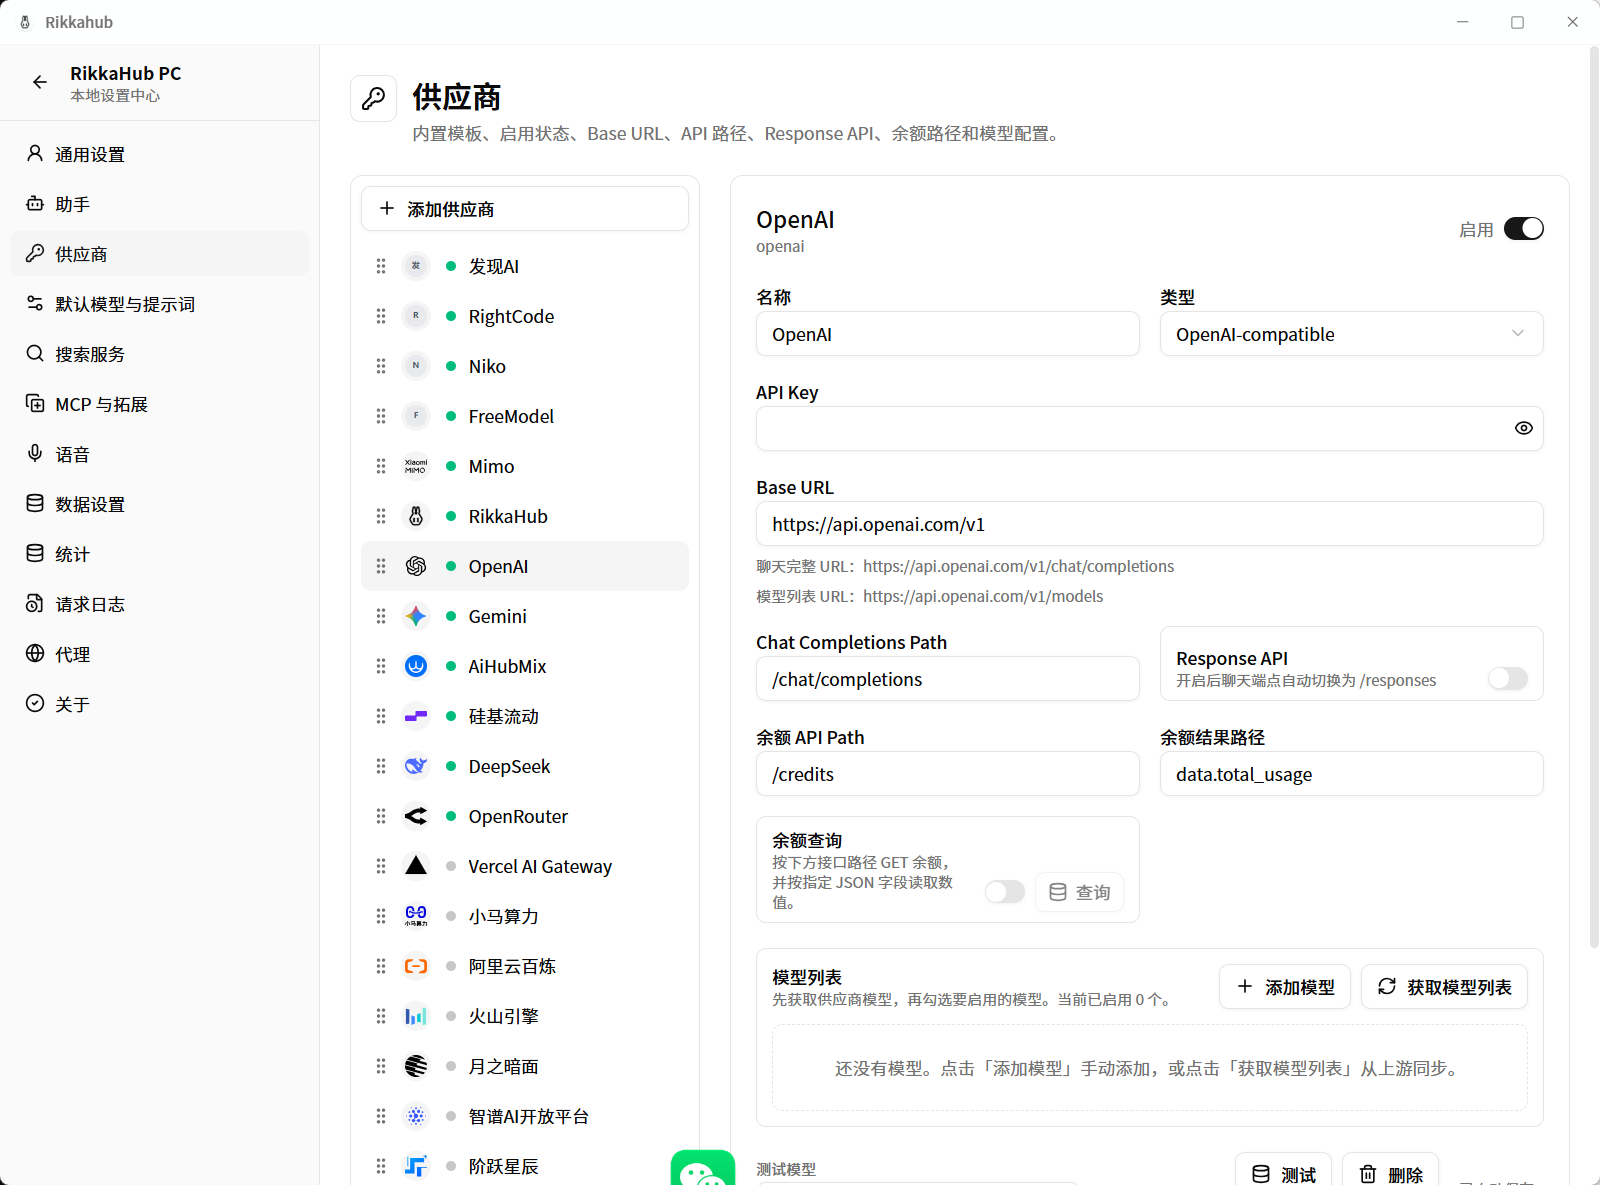
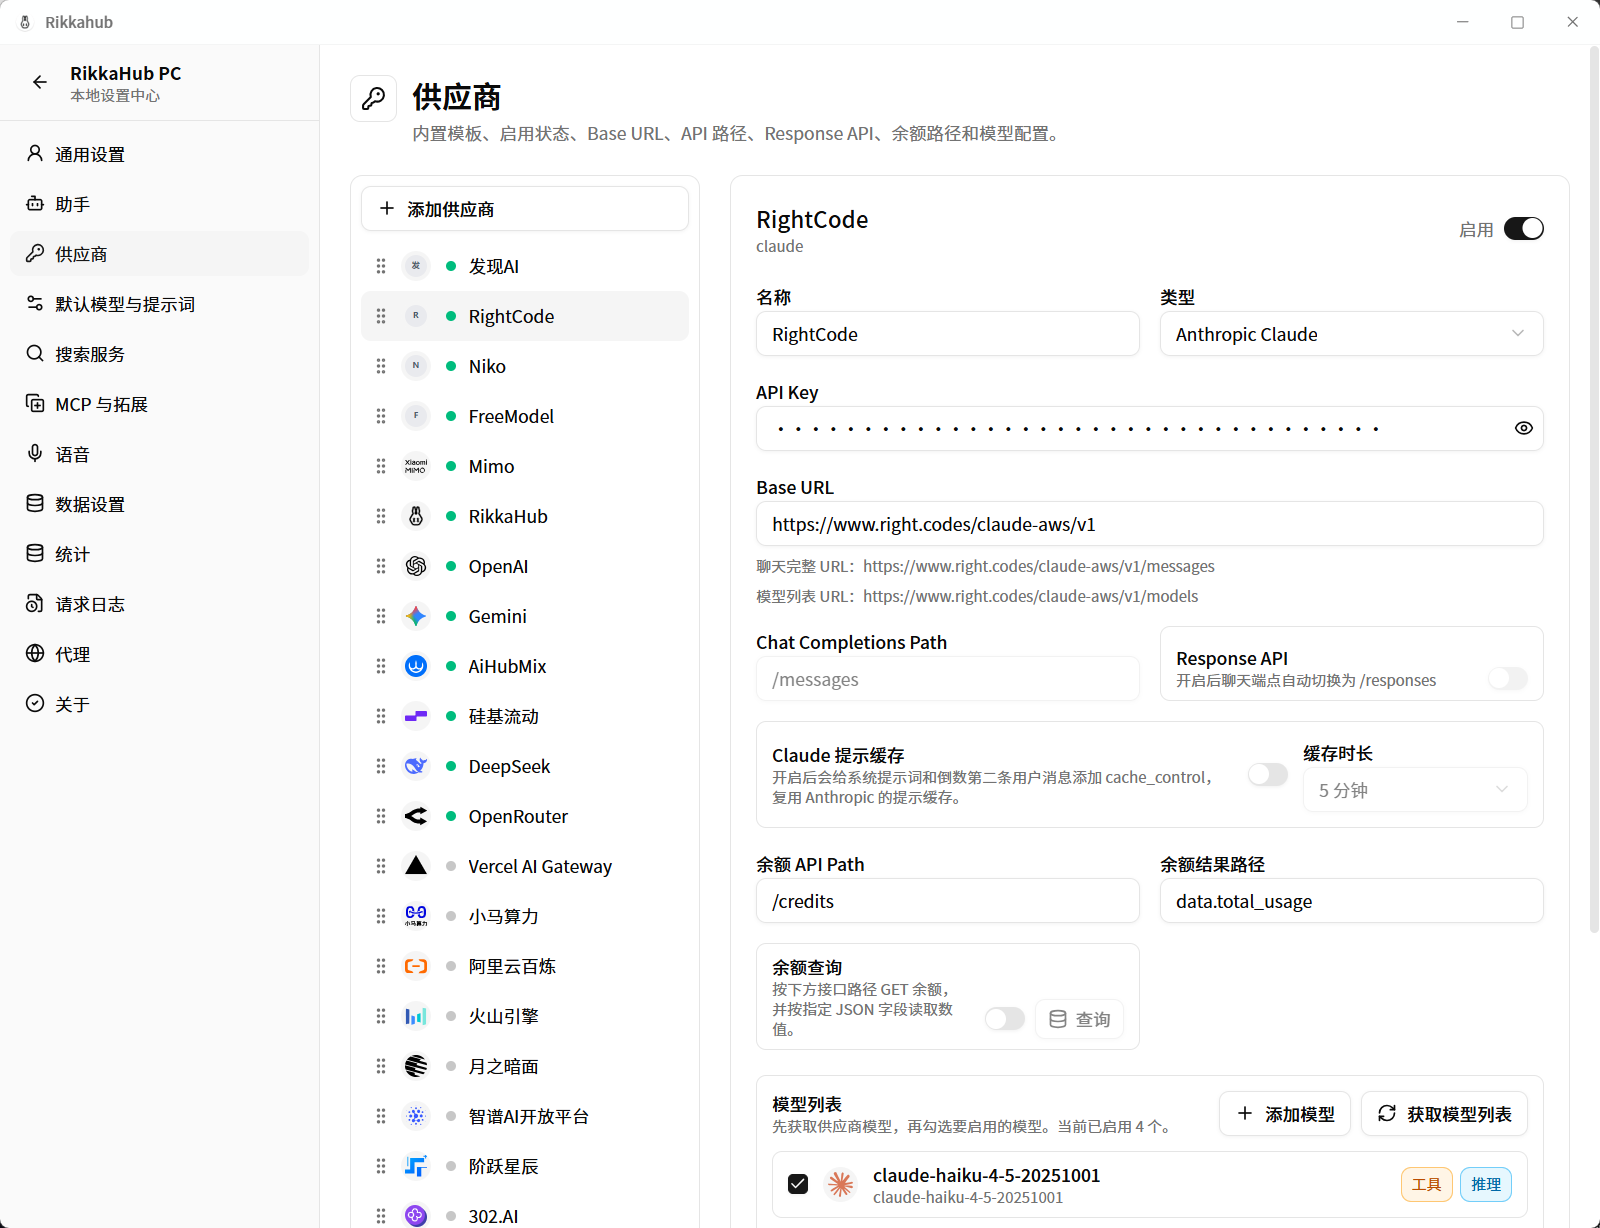
feat(docs): 多模态卡片改为扩展生态介绍 + 新增 Extension.png 截图展示 + 替换 settings.png

diff --git a/docs/index.html b/docs/index.html
@@ -343,10 +343,10 @@
 
         <div class="feat-card bg-[#0a0a0f] p-7 hover:bg-white/[0.02]">
           <div class="inline-flex size-10 items-center justify-center rounded-lg bg-emerald-500/15 text-emerald-300">
-            <svg class="size-5" viewBox="0 0 24 24" fill="none" stroke="currentColor" stroke-width="2" stroke-linecap="round" stroke-linejoin="round"><rect x="3" y="3" width="18" height="18" rx="2"/><circle cx="8.5" cy="8.5" r="1.5"/><path d="m21 15-5-5L5 21"/></svg>
+            <svg class="size-5" viewBox="0 0 24 24" fill="none" stroke="currentColor" stroke-width="2" stroke-linecap="round" stroke-linejoin="round"><path d="M4 19.5A2.5 2.5 0 0 1 6.5 17H20"/><path d="M6.5 2H20v20H6.5A2.5 2.5 0 0 1 4 19.5v-15A2.5 2.5 0 0 1 6.5 2z"/></svg>
           </div>
-          <h3 data-i18n="feat4.title" class="mt-5 text-lg font-semibold">多模态输入</h3>
-          <p data-i18n="feat4.body" class="mt-2 text-sm text-zinc-500 leading-relaxed">图片、PDF、DOCX、纯文本拖入即用。模型不支持的格式自动转文本。</p>
+          <h3 data-i18n="feat4.title" class="mt-5 text-lg font-semibold">世界书 · 提示词注入 · Skills</h3>
+          <p data-i18n="feat4.body" class="mt-2 text-sm text-zinc-500 leading-relaxed">世界书条目按触发词自动注入，提示词注入按位置叠加到系统提示词，Skills 可从 GitHub 一键导入。三套机制可以混合使用，每个助手独立配置。</p>
         </div>
 
         <div class="feat-card bg-[#0a0a0f] p-7 hover:bg-white/[0.02]">
@@ -450,6 +450,34 @@
             <p data-i18n="screenshots.imageBody2" class="mt-3 text-zinc-400 leading-relaxed">
               生成的图片与对话历史一起本地存档，便于后续引用或导出。
             </p>
+          </div>
+        </div>
+
+        <!-- Third showcase: Extensions (world books, prompt injections, MCP, Skills, etc.) —
+             text on the left, screenshot on the right (same orientation as the first
+             showcase so the page has a left-right-left rhythm down the page). -->
+        <div class="grid items-center gap-12 lg:grid-cols-2">
+          <div>
+            <div class="inline-flex items-center gap-2 rounded-full border border-emerald-500/20 bg-emerald-500/10 px-3 py-1 text-xs font-medium text-emerald-300">
+              <span data-i18n="screenshots.extBadge">扩展生态</span>
+            </div>
+            <h3 data-i18n="screenshots.extTitle" class="mt-4 text-3xl font-bold tracking-tight sm:text-4xl">为每个助手注入个性</h3>
+            <p data-i18n="screenshots.extBody1" class="mt-4 text-zinc-400 leading-relaxed">
+              MCP 服务器、提示词注入、世界书、快捷消息、Agent Skills — 五种扩展机制可以混合使用。每个助手独立选择启用哪些扩展，互不干扰。
+            </p>
+            <p data-i18n="screenshots.extBody2" class="mt-3 text-zinc-400 leading-relaxed">
+              世界书条目按触发关键词自动注入上下文；提示词注入按"系统提示词前后 / 聊天开头结尾 / 指定深度"位置叠加；Skills 直接从 GitHub 仓库一键导入。
+            </p>
+          </div>
+          <div class="window-frame relative overflow-hidden rounded-2xl border border-white/[0.08] bg-zinc-900">
+            <div class="flex items-center gap-1.5 border-b border-white/[0.06] bg-zinc-900/80 px-4 py-2.5">
+              <span class="size-3 rounded-full bg-red-500/80"></span>
+              <span class="size-3 rounded-full bg-yellow-500/80"></span>
+              <span class="size-3 rounded-full bg-green-500/80"></span>
+              <span class="ml-3 font-mono text-xs text-zinc-500" data-i18n="screenshots.frameExt">设置 — MCP 与拓展</span>
+            </div>
+            <img src="screenshots/Extension.png" alt="Extensions — MCP, prompt injections, world books, Skills" loading="lazy"
+                 class="w-full" onerror="this.parentElement.style.display='none'" />
           </div>
         </div>
       </div>
@@ -559,8 +587,8 @@
         'feat2.body': 'Ollama / LM Studio / llama.cpp Server — 端点指向 <code class="rounded bg-white/[0.06] px-1.5 py-0.5 font-mono text-xs">localhost:11434</code> 即可。',
         'feat3.title': 'MCP 与内置工具',
         'feat3.body': 'Model Context Protocol + Streamable HTTP，Gemini Search Grounding 与 OpenAI web_search 一键切换。',
-        'feat4.title': '多模态输入',
-        'feat4.body': '图片、PDF、DOCX、纯文本拖入即用。模型不支持的格式自动转文本。',
+        'feat4.title': '世界书 · 提示词注入 · Skills',
+        'feat4.body': '世界书条目按触发词自动注入，提示词注入按位置叠加到系统提示词，Skills 可从 GitHub 一键导入。三套机制可以混合使用，每个助手独立配置。',
         'feat5.title': '17 种联网搜索',
         'feat5.body': 'Tavily、Exa、Brave、Perplexity、博查、智谱、秘塔、Firecrawl、Grok、Jina、SearXNG、自定义 JS……',
         'feat6.title': '完整 Markdown 渲染',
@@ -581,6 +609,11 @@
         'screenshots.imageTitle': '文本到图像',
         'screenshots.imageBody1': '支持 gpt-image-2、DALL·E 3、Imagen、Qwen-Image、FLUX 等主流模型。可上传参考图编辑，自动保存历史参考便于复用。',
         'screenshots.imageBody2': '生成的图片与对话历史一起本地存档，便于后续引用或导出。',
+        'screenshots.extBadge': '扩展生态',
+        'screenshots.extTitle': '为每个助手注入个性',
+        'screenshots.extBody1': 'MCP 服务器、提示词注入、世界书、快捷消息、Agent Skills — 五种扩展机制可以混合使用。每个助手独立选择启用哪些扩展，互不干扰。',
+        'screenshots.extBody2': '世界书条目按触发关键词自动注入上下文；提示词注入按"系统提示词前后 / 聊天开头结尾 / 指定深度"位置叠加；Skills 直接从 GitHub 仓库一键导入。',
+        'screenshots.frameExt': '设置 — MCP 与拓展',
         'screenshots.frameSettings': '设置 — 供应商',
         'screenshots.frameImage': '图像生成',
         'tech.label': '基于现代技术构建',
@@ -625,8 +658,8 @@
         'feat2.body': 'Ollama / LM Studio / llama.cpp Server — just point the endpoint at <code class="rounded bg-white/[0.06] px-1.5 py-0.5 font-mono text-xs">localhost:11434</code>.',
         'feat3.title': 'MCP & built-in tools',
         'feat3.body': 'Model Context Protocol with Streamable HTTP. Gemini Search Grounding and OpenAI web_search toggle in one click.',
-        'feat4.title': 'Multimodal input',
-        'feat4.body': 'Drop in images, PDF, DOCX, or plain text. Unsupported formats are auto-converted to text.',
+        'feat4.title': 'World books · Prompt injections · Skills',
+        'feat4.body': 'World book entries auto-inject by trigger keywords, prompt injections stack into the system prompt by position, Skills import directly from GitHub. Mix and match per assistant.',
         'feat5.title': '17 search engines',
         'feat5.body': 'Tavily, Exa, Brave, Perplexity, Bocha, Zhipu, Metaso, Firecrawl, Grok, Jina, SearXNG, custom JS, …',
         'feat6.title': 'Full Markdown rendering',
@@ -647,6 +680,11 @@
         'screenshots.imageTitle': 'Text to image',
         'screenshots.imageBody1': 'Supports gpt-image-2, DALL·E 3, Imagen, Qwen-Image, FLUX. Upload reference images for editing; history is kept for easy reuse.',
         'screenshots.imageBody2': 'Generated images are archived alongside conversation history for later reuse or export.',
+        'screenshots.extBadge': 'Extension ecosystem',
+        'screenshots.extTitle': 'Tailor every assistant',
+        'screenshots.extBody1': 'MCP servers, prompt injections, world books, quick messages, Agent Skills — five extension mechanisms that mix freely. Each assistant picks its own set independently.',
+        'screenshots.extBody2': 'World book entries auto-inject by trigger keywords; prompt injections stack by position (before/after system prompt, top/bottom of chat, at depth); Skills import directly from a GitHub repo.',
+        'screenshots.frameExt': 'Settings — MCP & Extensions',
         'screenshots.frameSettings': 'Settings — Providers',
         'screenshots.frameImage': 'Image generation',
         'tech.label': 'Built on modern foundations',